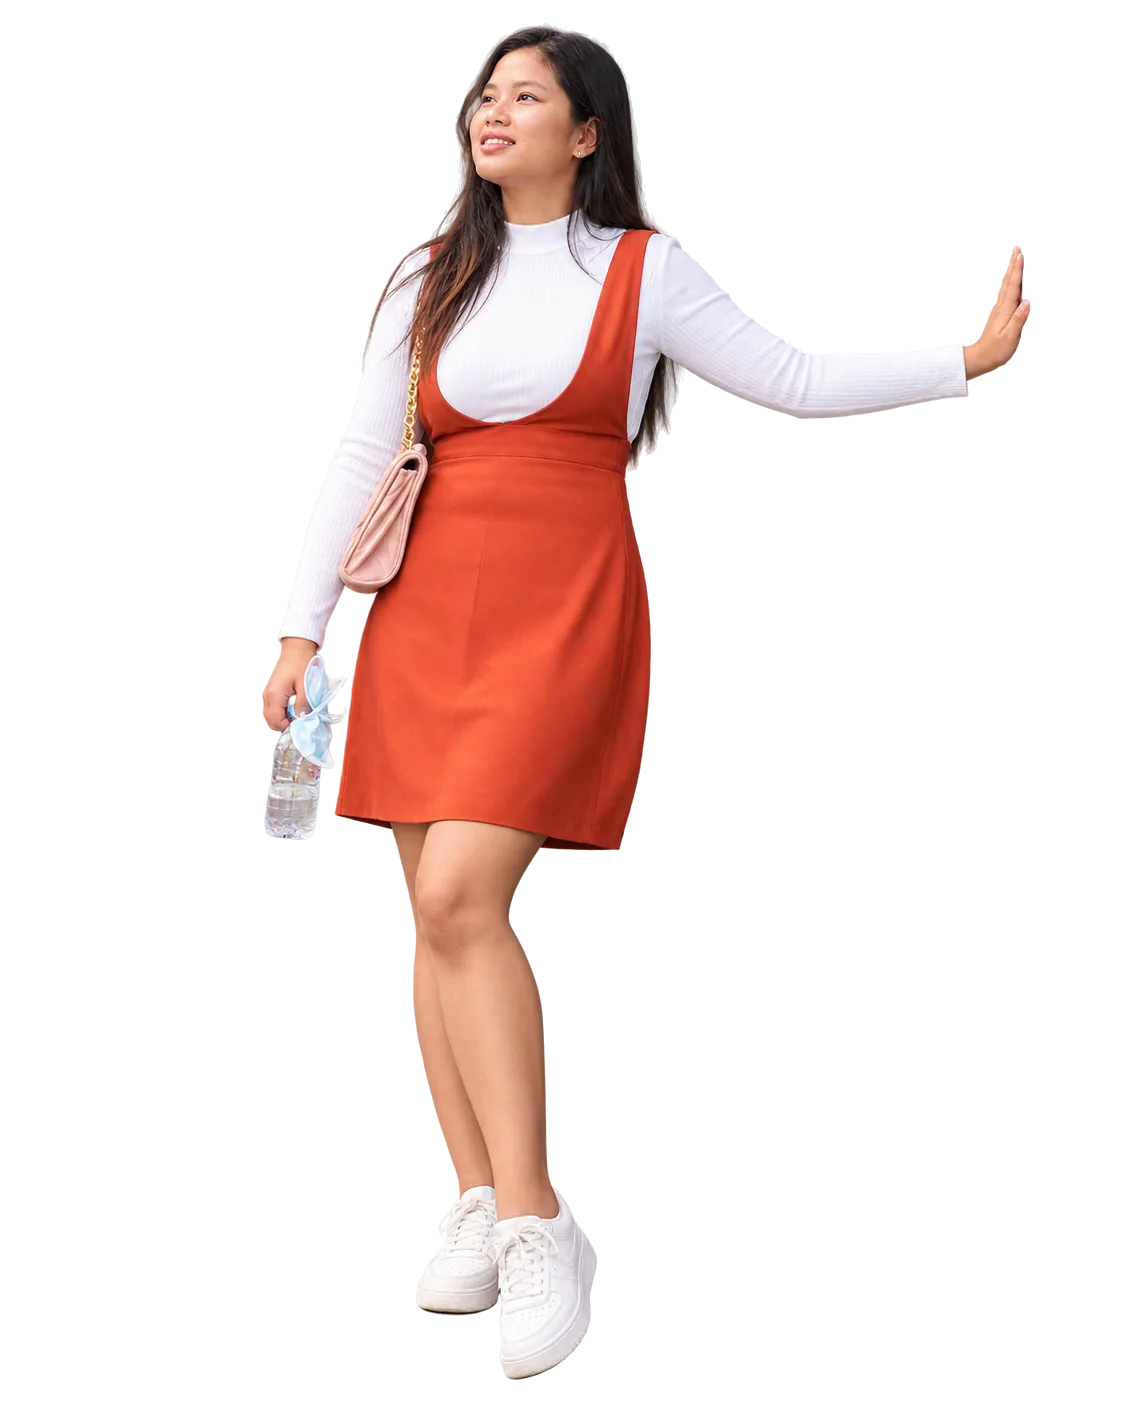
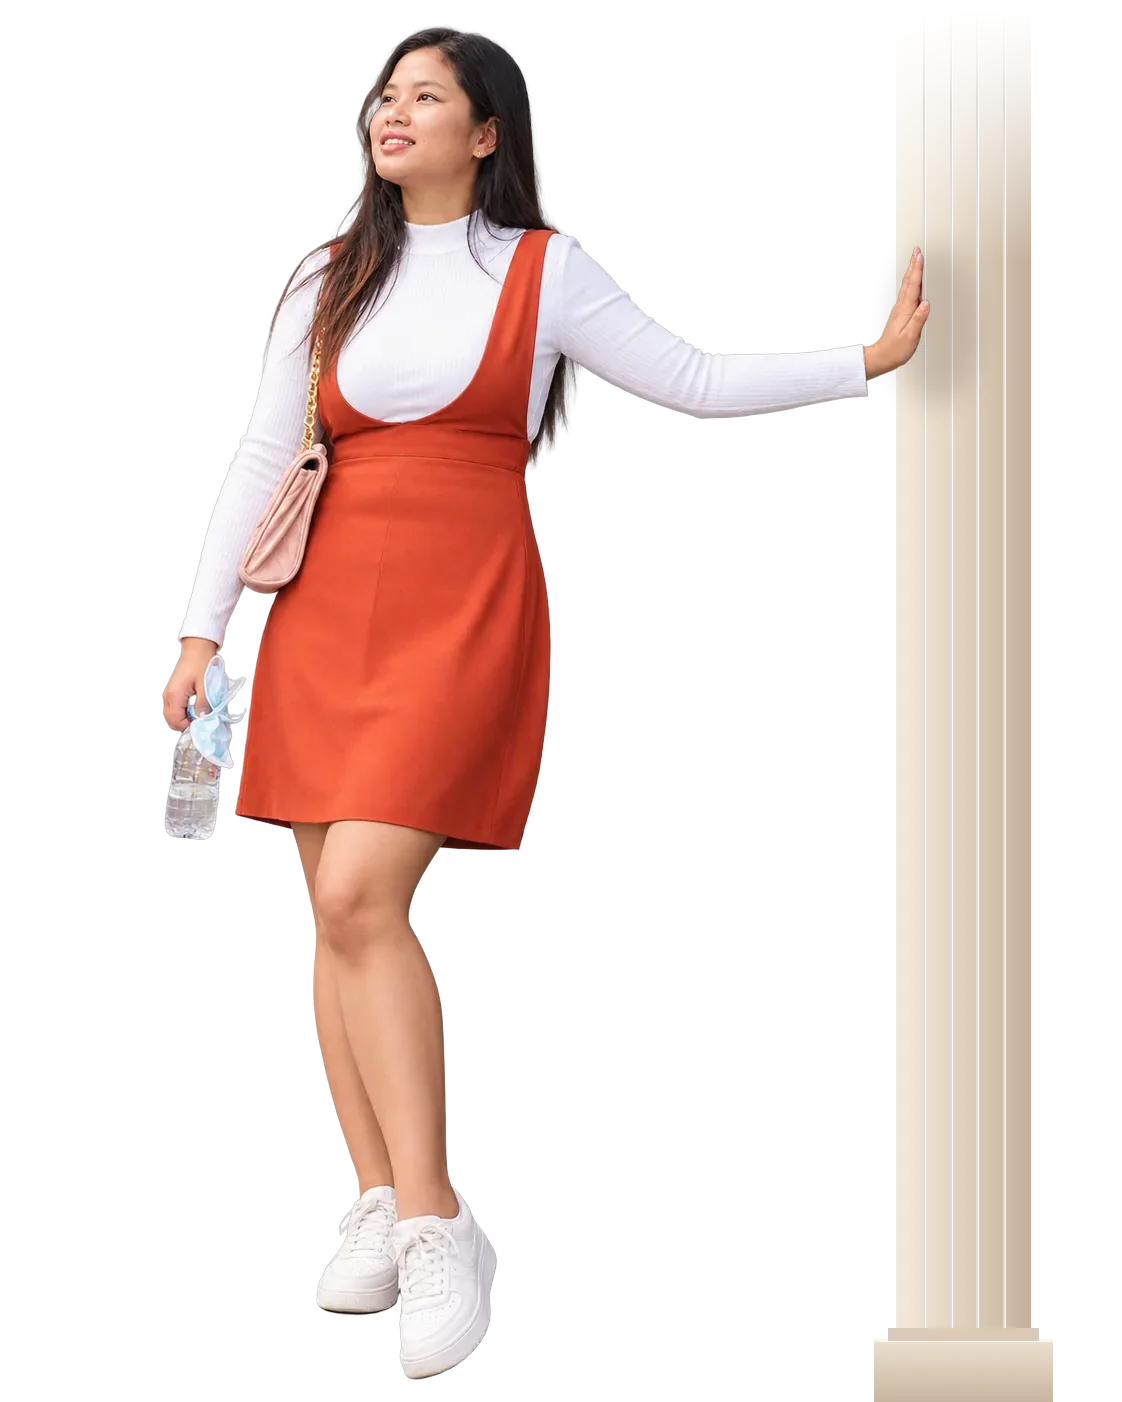
Fashion: the orange-dress model now rests her raised hand on a stone pillar
The cutout had nothing under her raised hand. A drawn stone pillar is composited into the image itself,
so every place she appears (the Westernwear banner, the home tile and the mobile views) gets it.

diff --git a/frontend/src/css/components/fashion-discover.css b/frontend/src/css/components/fashion-discover.css
@@ -31,8 +31,8 @@
   .fashion-category-active-sports { grid-column: 5 / 9; grid-row: 3; }
   .fashion-category-bags { grid-column: 9 / 13; grid-row: 3; }
   .fashion-category-indianwear .fashion-art { left: auto; right: 3%; width: 52%; transform: none; }
-  .fashion-category-westernwear .fashion-art { left: auto; right: 32%; width: 38%; transform: none; }
-  .fashion-category-westernwear .fashion-art + .fashion-art { right: 7%; }
+  .fashion-category-westernwear .fashion-art { left: auto; right: 36%; width: 34%; transform: none; }
+  .fashion-category-westernwear .fashion-art + .fashion-art { right: 6%; }
   .fashion-category-westernwear:hover .fashion-art, .fashion-category-indianwear:hover .fashion-art { transform: scale(1.03); }
   .fashion-category-westernwear:not(:has(.fashion-photo)) .fashion-category-label, .fashion-category-indianwear:not(:has(.fashion-photo)) .fashion-category-label { right: 50%; background: none; padding-right: 0; }
 }

diff --git a/frontend/src/css/components/fashion-art.css b/frontend/src/css/components/fashion-art.css
@@ -10,8 +10,8 @@
 .fashion-tint-womens-kurtas { --t1: #efdfc6; --t2: #d9b88c; }
 .fashion-tint-westernwear { --t1: #efe5de; --t2: #d8c3b6; }
 /* Westernwear shows two models side by side. */
-.fashion-tint-westernwear .fashion-art { width: 78%; left: 27%; }
-.fashion-tint-westernwear .fashion-art + .fashion-art { left: 62%; }
+.fashion-tint-westernwear .fashion-art { width: 78%; left: 25%; }
+.fashion-tint-westernwear .fashion-art + .fashion-art { left: 58%; }
 .fashion-tint-indianwear { --t1: #edd3ba; --t2: #d3a27c; --aw: 150%; }
 .fashion-tint-footwear { --t1: #ebe4d8; --t2: #d0c3b0; --aw: 260%; }
 .fashion-tint-active-sports { --t1: #e3e7da; --t2: #bdc6af; }
